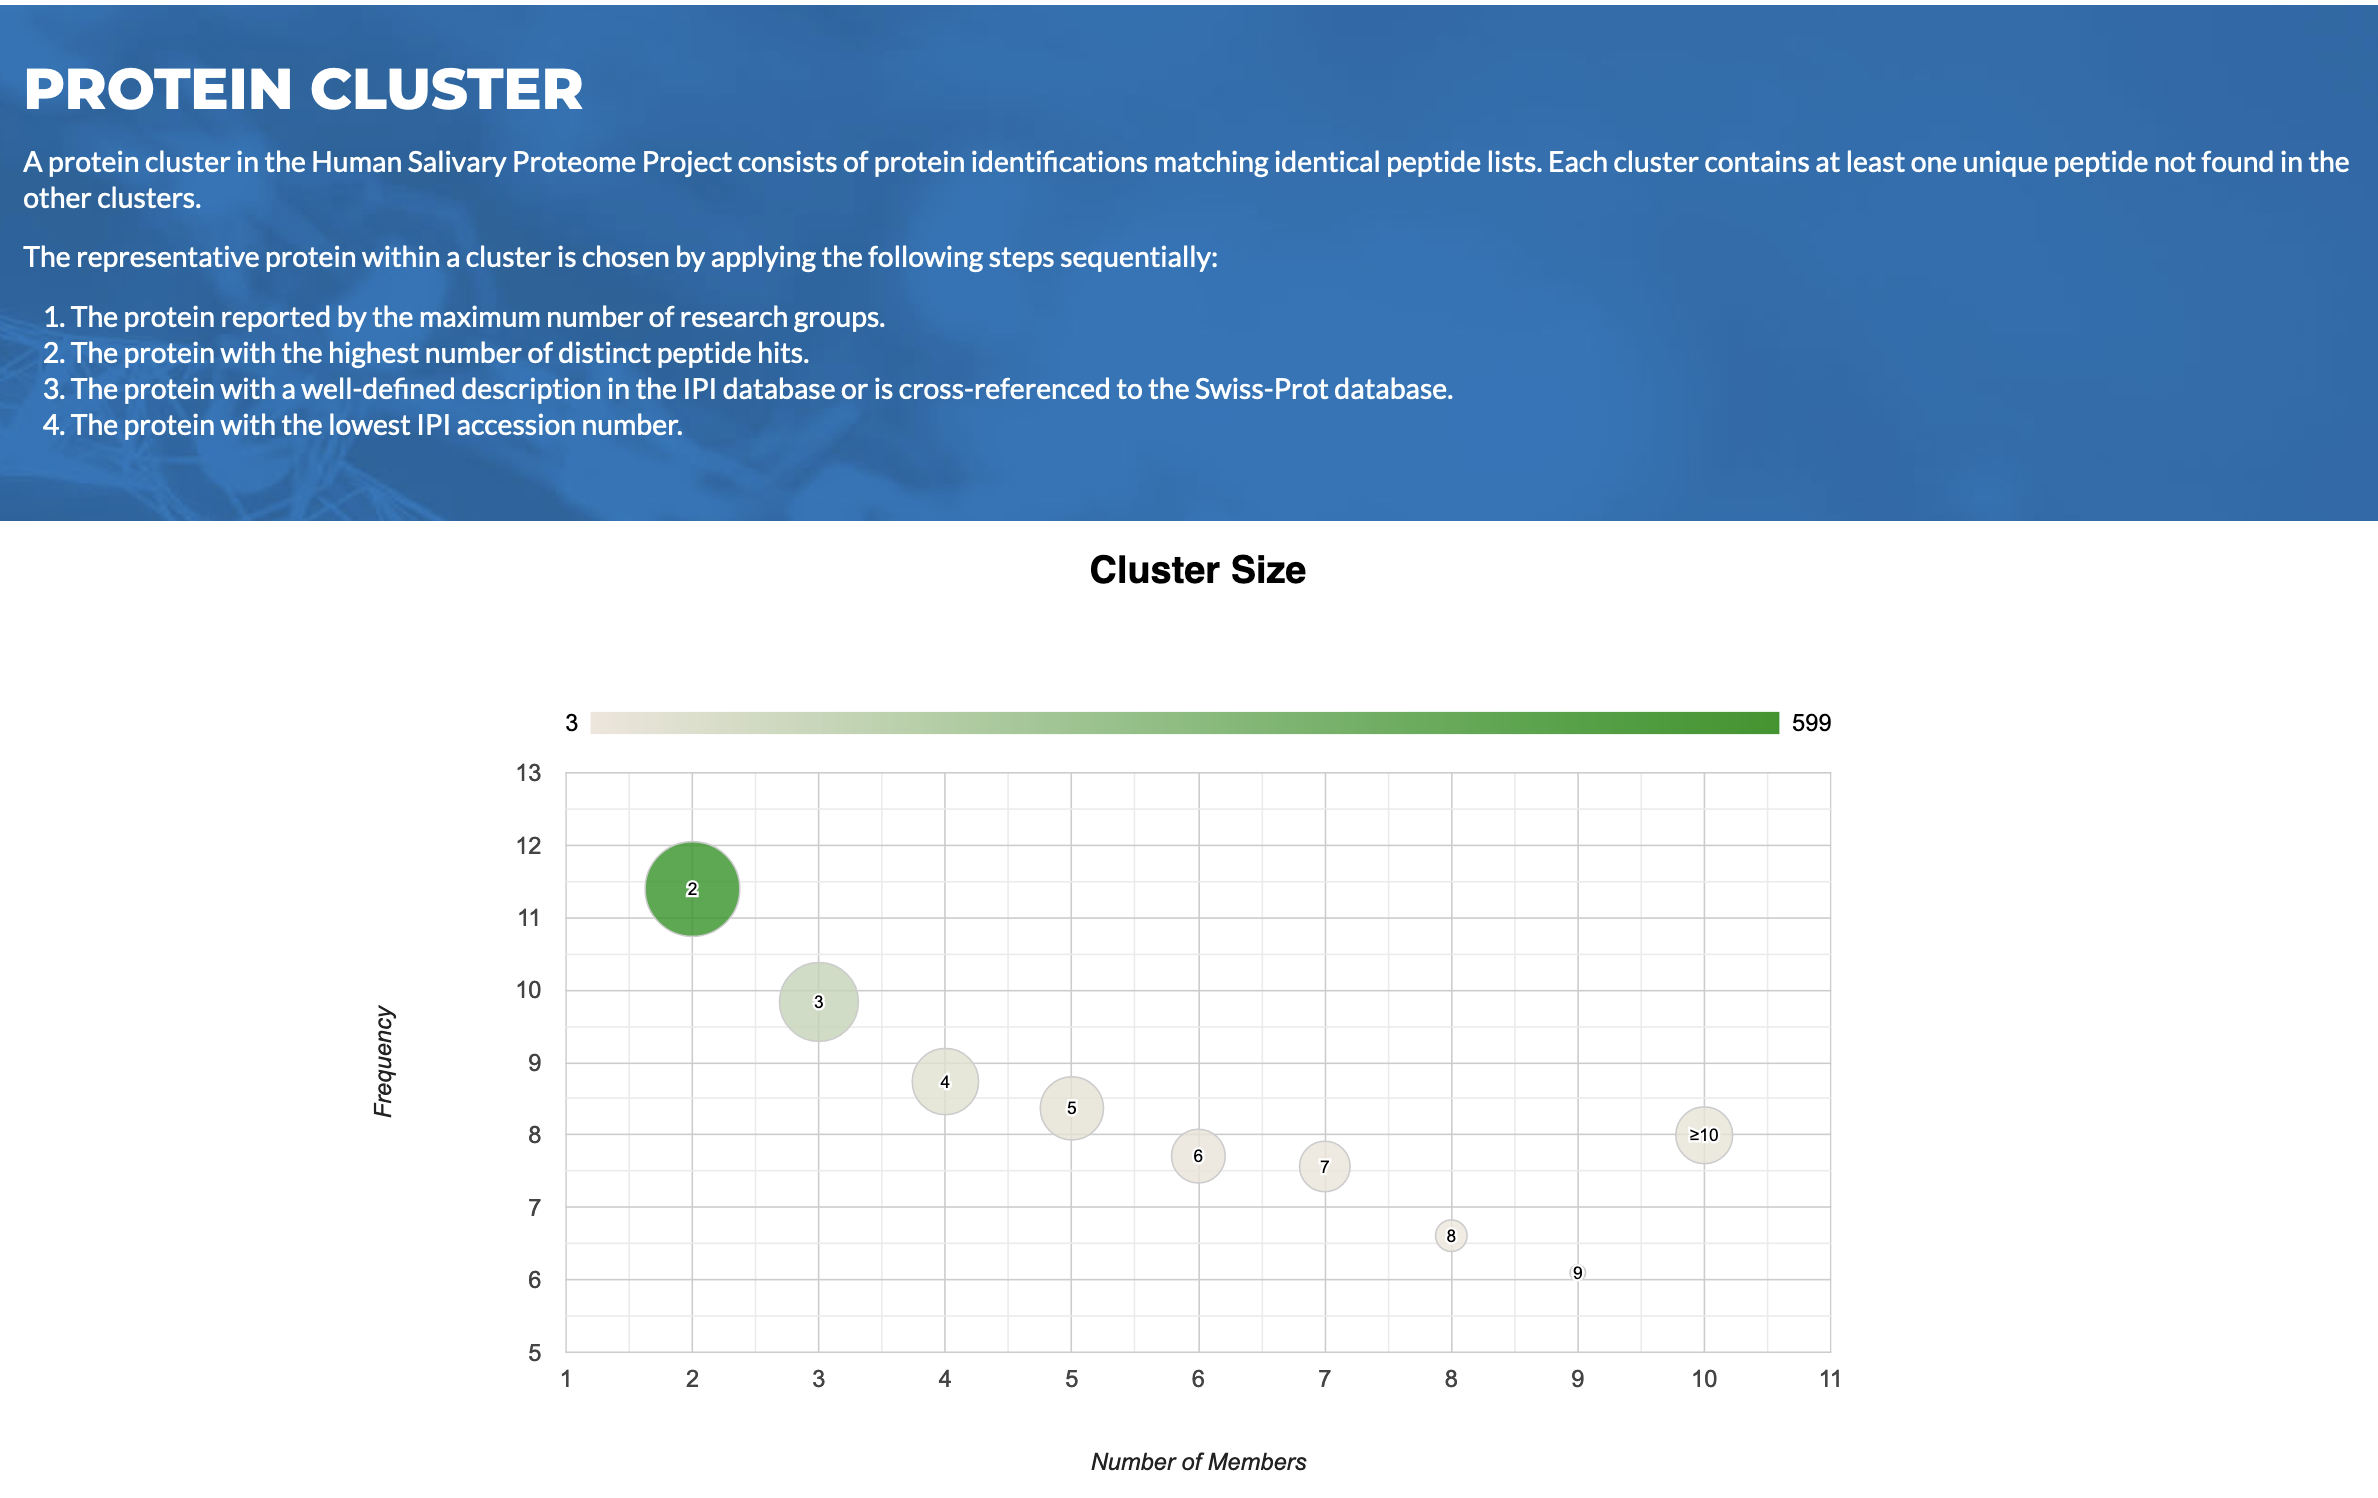
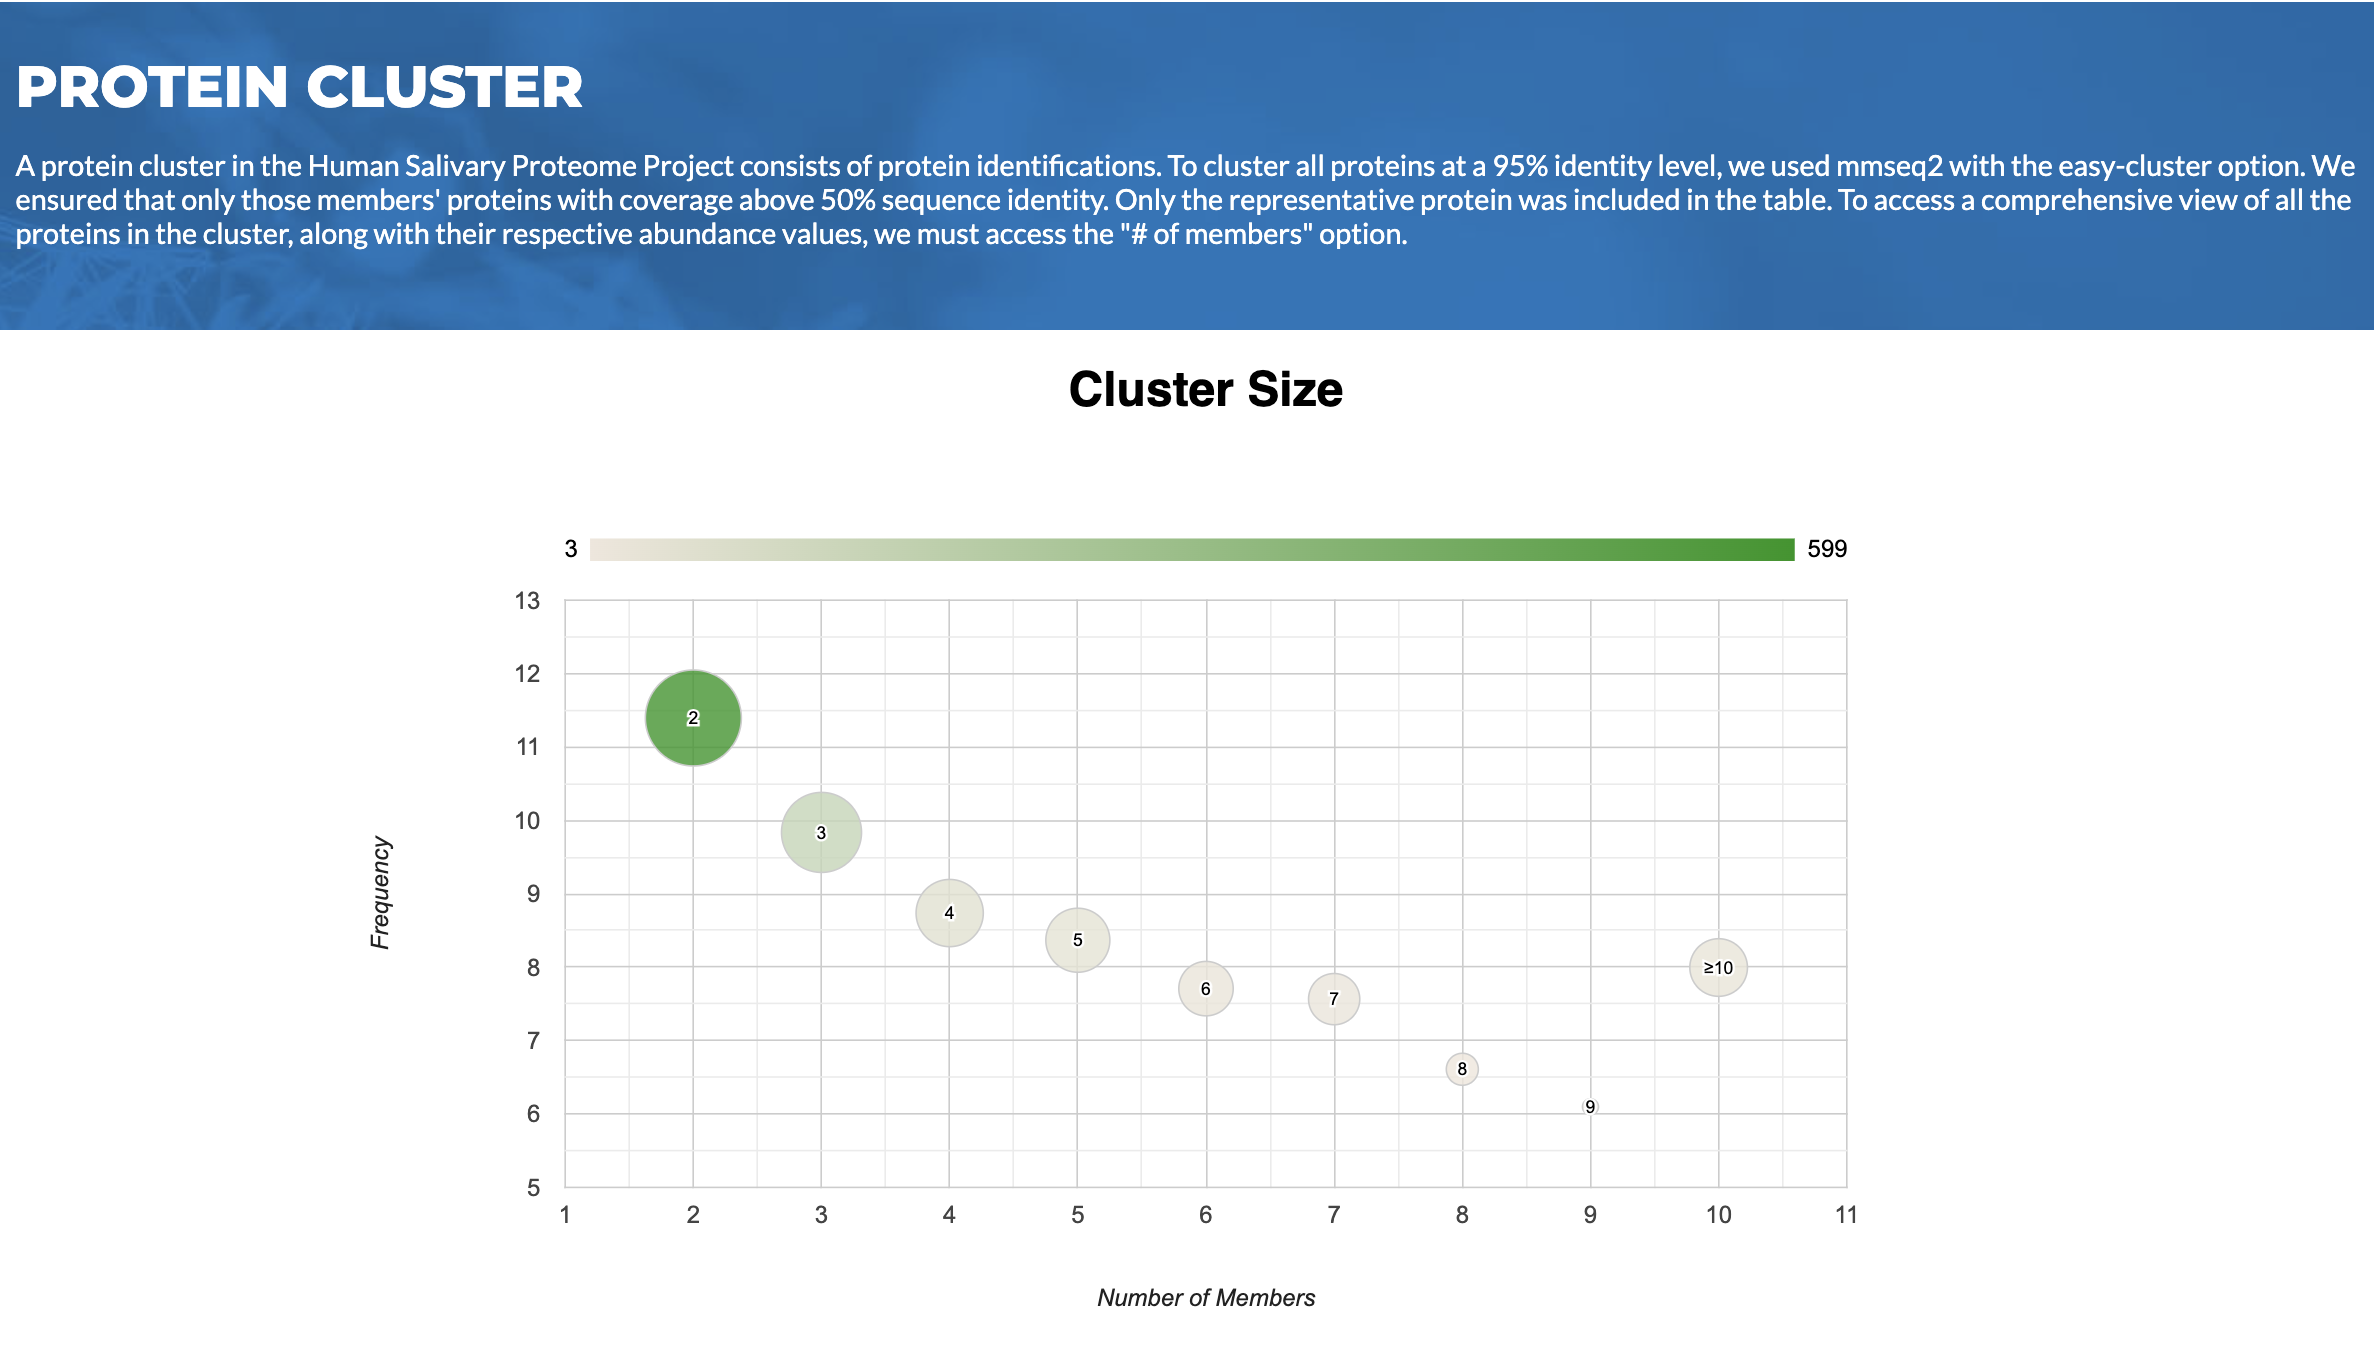
Added Protein Cluster docs

diff --git a/documentation/docs/protein-cluster.md b/documentation/docs/protein-cluster.md
@@ -1,0 +1,40 @@
+# Protein Clusters
+
+Some proteins may have identical amino acid chains in part of their sequences. Peptide-based evidence cannot distinguish between redundant identifications that likely represent homologs and isoforms. In the Human Salivary Proteome V2.0 (HSP V2.0), proteins are grouped together when they are produced from identical peptide evidence. In addition, protein clusters that share one or more common proteins are merged further. All cluster pages can be accessed from any page using the navigation menu (Browse > Protein clusters).
+
+## Cluster Members
+
+![Protein Cluster Graph](./img/protein-cluster/protein-cluster-graph.png)
+<br>
+**Figure 1:** A frequency plot showing the number and size of protein clusters.
+
+**Figure 1** shows the frequency (log2 transformed, y-axis) of different sizes of protein clusters (size defined as the number of member proteins, x-axis). The size of the circle represents the frequency. The larger a cluster is, the less frequent it is. The largest cluster currently has 36 protein members.
+
+## List of Protein Clusters and Basic Information
+
+![Protein Cluster Table](./img/protein-cluster/protein-cluster-table.png)
+<br>
+**Figure 2:** Search, filtering, and browsing interface for protein clusters and their representative proteins.
+
+As shown in **Figure 2**, in addition to the protein accession number and name of the representative protein, each row also displays the size of the cluster. Each column is sortable by clicking on the column header. The search box on the top (**Figure 3**) allows the user to type in a keyword to search for the matching protein clusters and the representative proteins. The left panel provides three options for filtering the table content based on: accession number, protein name, and size (number of members) of the cluster. When both searching and filtering keywords are provided, the results will show the protein clusters that meet both criteria. The table will automatically refresh while the user types in a keyword or a filtering criterion in the left panel. At the bottom of the table there is a button “Download Spreadsheet” for the user to download the list (CSV format) of all the protein clusters shown on the current page.
+
+![Protein Cluster Search](./img/protein-cluster/protein-cluster-search.png)
+<br>
+**Figure 3:** Use a keyword to search for protein clusters and their representative proteins.
+
+## Definition and Identification of Representative Proteins in a Cluster
+
+We first used mmseq2 with the easy-cluster option to produce the protein clusters at a 95% identity level. Then a single representative protein is selected from each cluster based on the likelihood that the protein is actually present in the saliva samples. Only those members' proteins with coverage above 50% sequence identity are included.
+
+## Navigation in Protein Clusters
+
+If there is more than one protein member in a cluster, clicking on the representative protein name will show all the member proteins and their names and other characteristics, as shown in **Figure 4**, providing further insights with the possible explanation for why the proteins are grouped together.
+
+![Protein Cluster Detail](./img/protein-cluster/protein-cluster-detail.png)
+**Figure 4:** List of member proteins in the cluster represented by P68371.
+
+Clicking on the protein accession number in **Figure 4** will open the protein details page, as shown in **Figure 5**.
+
+![Protein Detail](./img/protein-cluster/protein-detail.png)
+<br>
+**Figure 5:** Detailed information of representative protein in a protein cluster.
